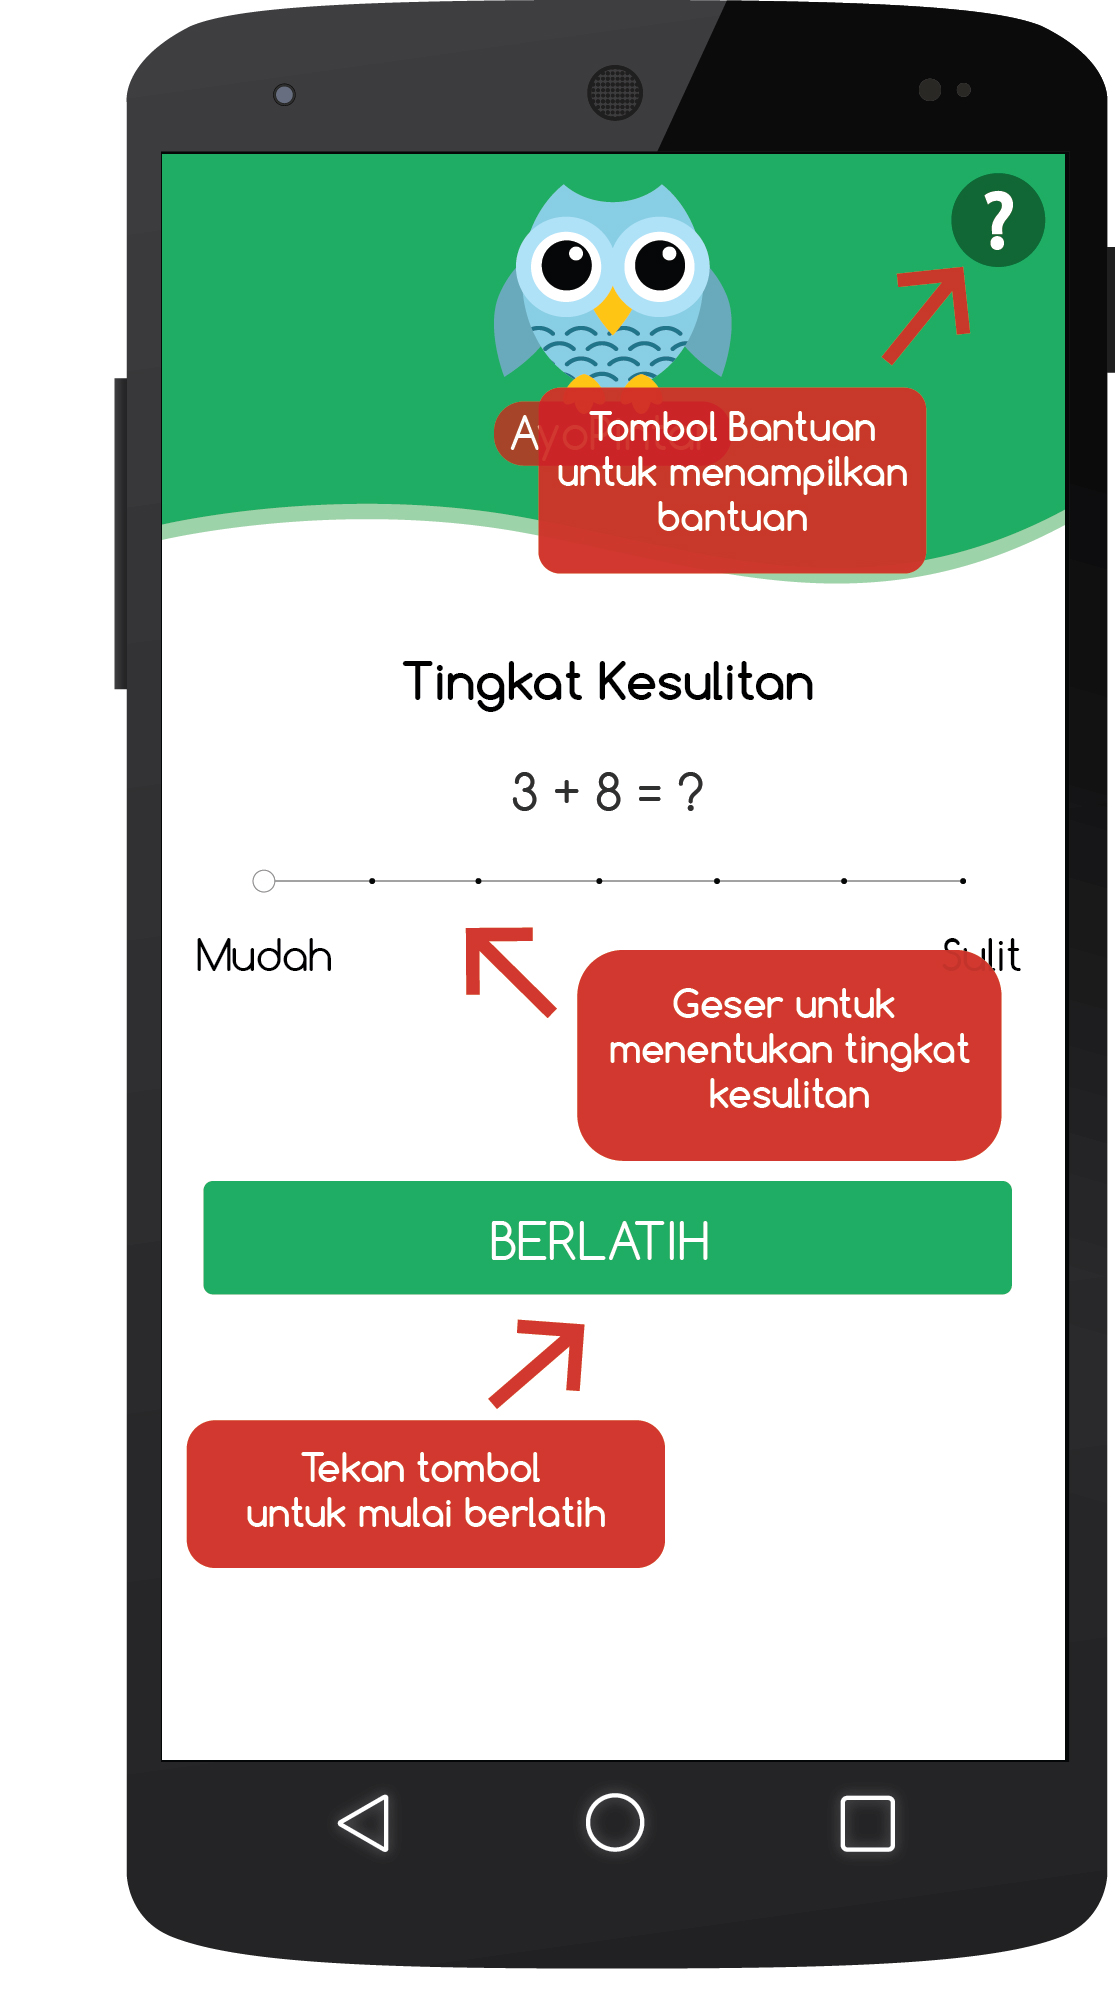
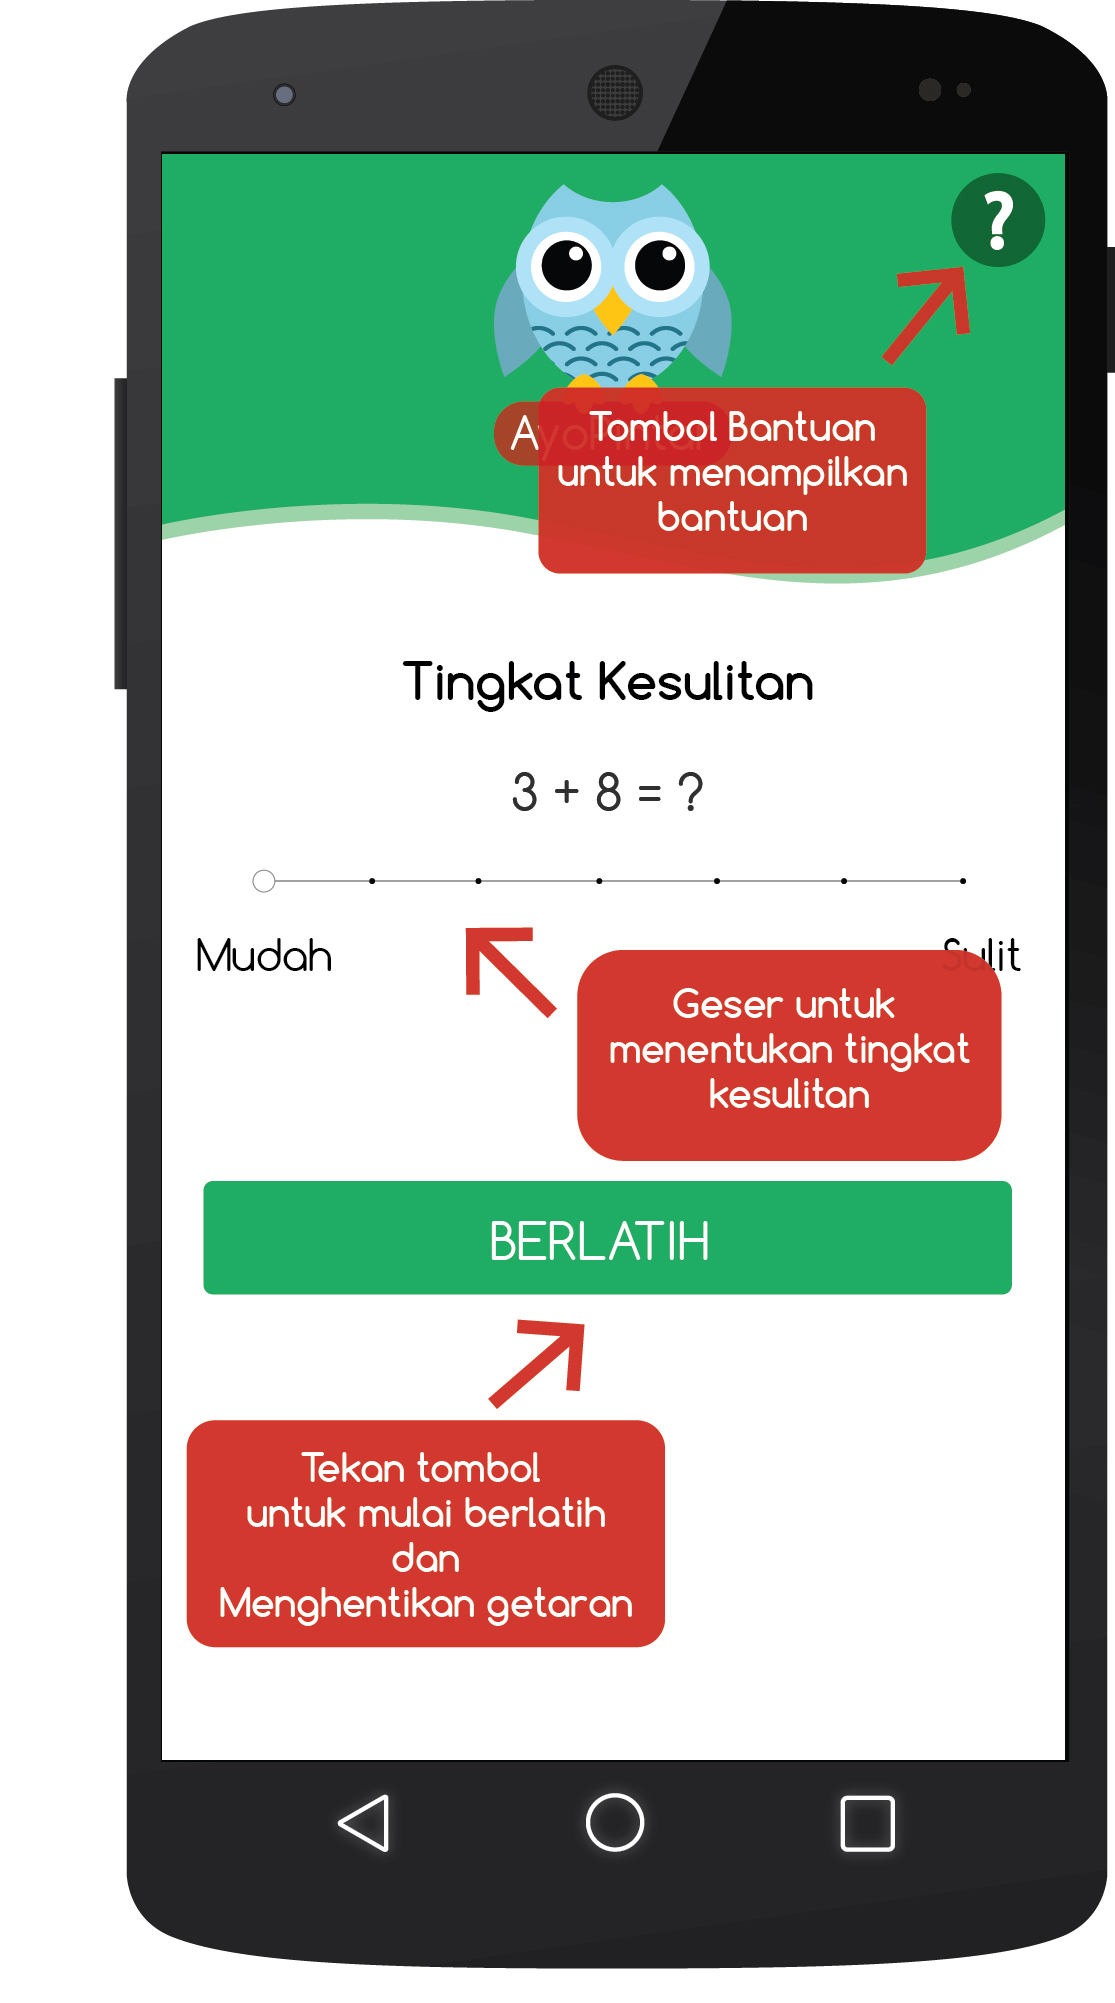
31 August 2017 : 13.10

Changed region(s): [[0.1525, 0.7738, 0.6099, 0.8357]]

diff --git a/src/pages/home/home.ts b/src/pages/home/home.ts
@@ -6,6 +6,7 @@ import { LocalNotifications } from '@ionic-native/local-notifications';
 import { Dialogs } from '@ionic-native/dialogs';
 import { BackgroundMode } from '@ionic-native/background-mode';
 import { AndroidFullScreen } from '@ionic-native/android-full-screen';
+import { Vibration } from '@ionic-native/vibration';
 
 @Component({
   selector: 'page-home',
@@ -18,7 +19,8 @@ export class HomePage {
   random3: number;
   hasil: number;
   jawaban: number;
-  soal: string
+  soal: string;
+  soal1 : string;
   
   
   toggleStatus = false;
@@ -32,14 +34,39 @@ export class HomePage {
     public navCtrl: NavController,
     private backgroundMode: BackgroundMode,
     private dialogs: Dialogs,
-    public alertCtrl: AlertController
+    public alertCtrl: AlertController,
+    private vibration: Vibration
     ) {}
       
 
     ionViewDidLoad() {
+
+       
+
         console.log('ionViewDidLoad About2');
+        this.backgroundMode.enable(); 
+        this.loop();  
         
      }
+
+     
+
+     loop(){
+
+       setInterval(() => {      
+          console.log('timer');
+          //you can call function here
+          this.localNotifications.schedule({
+            id:1,
+            text : 'Tekan Tombol BERLATIH untuk menghentikan getaran',
+            // icon: 'file:/assets/pict/AkuSehat.png'
+          }),
+          this.vibration.vibrate([
+            2000,100,2000,100,2000,100,2000,100,2000,100,2000,100,2000,100,2000,100,2000,100,2000,100,2000,100,2000,100,2000,100,2000,100,2000,100,2000,100,2000,100,2000,100,2000,100,2000,100,2000,100,2000,100,2000,100,2000,100,2000,100,2000,100,2000,100,2000,100,2000,100,2000,100,2000,100,2000,100,2000,100,2000,100,2000,100,2000,100,2000,100,2000,100,2000,100,2000,100,2000,100,2000,100,2000,100,2000,100,2000,100,2000,100,2000,100,2000,100,2000,100,2000,100,2000,100,2000,100,2000,100,2000,100,2000,100,2000,100,2000,100,2000,100,2000,100,2000,100,2000,100,2000,100,2000,100,2000,100,2000,100,2000,100,2000,100,2000,100,2000,100,2000,100,2000,100,2000,100,2000,100,2000,100,2000,100,2000,100,2000,100,2000,100,2000,100,2000,100,2000,100,2000,100,2000,100,2000,100,2000,100,2000,100,2000,100,2000,100,2000,100,2000,100,2000,100,2000,100,2000,100,2000,100,2000,100,2000,100,2000,100,2000,100,2000,100,2000,100,2000,100,2000,100,2000,100,2000,100,2000,100,2000,100,2000,100,2000,100,2000])
+       },900000);
+        // this.ionViewDidLoad;
+         
+    }
 
   tambah(){
     if(this.JumlahSoal<5)
@@ -58,26 +85,12 @@ export class HomePage {
     this.navCtrl.push(HelpPage);
   }
 
-  Change_Toggle() {
-
-
-    // nnti dikasih password gitu
-  
-
-  // 
-  if(this.toggleStatus == true){
-
-    this.backgroundMode.enable();        
-   }
-   else{
-     this.backgroundMode.disable();  
-   }
-
-  }
-
-  // var timeNow = new Date().getTime();
   Change_Soal() {
     this.random();
+  }
+
+  randomKodeSoal(){
+    this.KodeSoal = Math.floor((Math.random()*7)+1);
   }
 
   random(){
@@ -85,100 +98,146 @@ export class HomePage {
         this.random1 = Math.floor((Math.random()*9)+1);
         this.random2 = Math.floor((Math.random()*9)+1);
         this.hasil=this.random1 + this.random2;
-        this.soal=this.random1+' + '+this.random2+'= ?';
+        this.soal=this.random1+' + '+this.random2+' = ?';
+        this.soal1=this.random1+' + '+this.random2+' = ';
       }
       else if(this.KodeSoal==2){
         this.random1 = Math.floor((Math.random()*99)+10);
         this.random2 = Math.floor((Math.random()*9)+1);
         this.hasil=this.random1 + this.random2;
-        this.soal=this.random1+' + '+this.random2+'= ?';
+        this.soal=this.random1+' + '+this.random2+' = ?';
+        this.soal1=this.random1+' + '+this.random2+' = ';
       }
       else if(this.KodeSoal==3){
         this.random1 = Math.floor((Math.random()*99)+10);
         this.random2 = Math.floor((Math.random()*99)+10);
         this.hasil=this.random1 + this.random2;
-        this.soal=this.random1+' + '+this.random2+'= ?';
+        this.soal=this.random1+' + '+this.random2+' = ?';
+        this.soal1=this.random1+' + '+this.random2+' = ';
       }
       else if(this.KodeSoal==4){
         this.random1 = Math.floor((Math.random()*9)+1);
         this.random2 = Math.floor((Math.random()*9)+1);
         this.hasil=this.random1 * this.random2;
-        this.soal=this.random1+' x '+this.random2+'= ?';
+        this.soal=this.random1+' x '+this.random2+' = ?';
+        this.soal1=this.random1+' x '+this.random2+' = ';
       }
       else if(this.KodeSoal==5){
         this.random1 = Math.floor((Math.random()*99)+10);
         this.random2 = Math.floor((Math.random()*9)+1);
         this.hasil=this.random1 * this.random2;
-        this.soal=this.random1+' x '+this.random2+'= ?';
+        this.soal=this.random1+' x '+this.random2+' = ?';
+        this.soal1=this.random1+' x '+this.random2+' = ';
       }
       else if(this.KodeSoal==6){
         this.random1 = Math.floor((Math.random()*9)+1);
         this.random2 = Math.floor((Math.random()*9)+1);
         this.random3 = Math.floor((Math.random()*9)+1);
         this.hasil=this.random1 * this.random2 + this.random3;
-        this.soal=this.random1+' x '+this.random2+' + '+this.random3+'= ?';
+        this.soal=this.random1+' x '+this.random2+' + '+this.random3+' = ?';
+        this.soal=this.random1+' x '+this.random2+' + '+this.random3+' = ';
       }
       else if(this.KodeSoal==7){
         this.random1 = Math.floor((Math.random()*9)+1);
         this.random2 = Math.floor((Math.random()*99)+10);
         this.random3 = Math.floor((Math.random()*99)+10);
         this.hasil=this.random1 * this.random2 + this.random3;
-        this.soal=this.random1+' x '+this.random2+' + '+this.random3+'= ?';
+        this.soal=this.random1+' x '+this.random2+' + '+this.random3+' = ?';
+        this.soal=this.random1+' x '+this.random2+' + '+this.random3+' = ';
       }
-
+      console.log(this.random1,this.random2,this.random3);
+      
   }
 
   cekJawab() {
+    console.log(this.jawaban);
     if(this.jawaban==this.hasil){
+      
+      console.log("masuk cek jawab bener");
           let alert = this.alertCtrl.create({
-        title: 'New Friend!',
-        subTitle: 'Your friend, Obi wan Kenobi, just accepted your friend request!',
-        buttons: ['OK']
+        title: 'Jawaban Benar!',
+        buttons: [
+        {
+          text: 'Akhiri',
+          handler: data => {
+            console.log('Cancel clicked');
+          }
+        },
+        {
+          text: 'Lanjut Berlatih!',
+          handler: data => {
+            console.log('Saved clicked');
+            // this.jawaban=data.jawaban;
+            this.latihan();
+          }
+        }
+      ]
       });
       alert.present();
     }
     else {
-      this.notif();
+      console.log("masuk cek jawab salah");
+      let alert = this.alertCtrl.create({
+        title: 'Jawaban Salah!',
+        subTitle : '<br>'+'Jawaban yang benar :',
+        message: this.soal1 + this.hasil,
+        buttons: [
+        {
+          text: 'Akhiri',
+          handler: data => {
+            console.log('Cancel clicked');
+          }
+        },
+        {
+          text: 'Lanjut Berlatih!',
+          handler: data => {
+            console.log('Saved clicked');
+            // this.jawaban=data.jawaban;
+            this.latihan();
+          }
+        }
+      ]
+      });
+      alert.present();
     }
   }
 
-  notif() {
 
-    this.androidFullScreen.showUnderSystemUI()
-    // this.androidFullScreen.isImmersiveModeSupported()
-    .then(() => this.androidFullScreen.immersiveMode())
-    .catch((error: any) => console.log(error));
-
-    this.random();
-
+  latihan() {
+        // menghentikan getaran
+        this.vibration.vibrate(0);
+        // this.randomKodeSoal();
+        this.random();
+        this.showPrompt();
 
 
-    
-    this.dialogs.prompt(this.soal, 'Soal 1', ['Jawab'],'')
 
-    .then(function(result) {
-      // var input = result.input1;
-      // no button = 0, 'OK' = 1, 'Cancel' = 2
-      this.jawaban = result;
-      this.cekJawab();
-      // var btnIndex = result.buttonIndex;
-      
+      }
+
+      showPrompt() {
+    let prompt = this.alertCtrl.create({
+      title: 'Berlatih',
+      message: this.soal,
+      inputs: [
+        {
+          name: 'jawaban',
+          placeholder: 'Jawaban'
+        },
+      ],
+      buttons: [
+        {
+          text: 'Jawab',
+          handler: data => {
+            console.log('Saved clicked');
+            this.jawaban=data.jawaban;
+            this.cekJawab();
+          }
+        }
+      ]
     });
-
-   
-
+    prompt.present();
   }
 
-  rollDice() {
-        var t_this = this;
-        var i = 0
-        var roll_int = setInterval(() => {
-
-          this.notif();
-        }, 10000);
-
-        
-      }
 
 
 }

diff --git a/src/pages/home/home.html b/src/pages/home/home.html
@@ -22,9 +22,9 @@
           <ion-icon class="icon" name="md-help" ></ion-icon>
         </button>
     </ion-fab>
-    <ion-fab top left >
+    <!--<ion-fab top left >
       <ion-toggle color="ijoTua" [(ngModel)]="toggleStatus"  checked="false" (ionChange)="Change_Toggle()"></ion-toggle>
-    </ion-fab>
+    </ion-fab>-->
     <!--<ion-item no-lines class="transparent" text-right>
     <ion-icon name="ios-help-circle-outline" class="icon"></ion-icon>
     </ion-item>-->
@@ -48,17 +48,19 @@
           <ion-col text-right col-6><font size="4">Sulit</font></ion-col>
         </ion-row>
     </ion-grid>
-    <ion-item></ion-item>
-    <ion-item text-center no-lines padding-top><font size="5">Jumlah Soal</font></ion-item>
-    <ion-grid >
+    <!--<ion-item></ion-item>-->
+    <!--<ion-item text-center no-lines padding-top><font size="5">Jumlah Soal</font></ion-item>-->
+    <!--<ion-grid >
         <ion-row>
           <ion-col text-right ><button ion-button (click)="kurang()" small color="ijo">-</button></ion-col>
           <ion-col text-center><button ion-button clear color="grey"><p><font size="3">{{JumlahSoal}} soal</font></p></button></ion-col>
           <ion-col><button ion-button (click)="tambah()" small color="ijo">+</button></ion-col>
         </ion-row>
     </ion-grid>
-    <ion-item no-lines></ion-item>
-    <button ion-button block color="ijo" (click)="rollDice()">Pasang</button>
+    <ion-item no-lines></ion-item>-->
+    <!--<button ion-button block color="ijo" (click)="rollDice()">Pasang</button>-->
+  
+    <button ion-button class="Button" block color="ijo" (click)="latihan()"><p class="ButtonWord">Berlatih</p></button>
   
 
 </ion-content>

diff --git a/src/app/app.component.ts b/src/app/app.component.ts
@@ -6,6 +6,7 @@ import { SplashScreen } from '@ionic-native/splash-screen';
 import { HomePage } from '../pages/home/home';
 
 import { Autostart } from '@ionic-native/autostart';
+import { NativeAudio } from '@ionic-native/native-audio';
 
 @Component({
   templateUrl: 'app.html'
@@ -13,12 +14,15 @@ import { Autostart } from '@ionic-native/autostart';
 export class MyApp {
   rootPage:any = HomePage;
 
-  constructor(platform: Platform, statusBar: StatusBar, splashScreen: SplashScreen, private autostart: Autostart) {
+  constructor(platform: Platform, statusBar: StatusBar, splashScreen: SplashScreen, private autostart: Autostart, private nativeAudio: NativeAudio) {
+    this.nativeAudio.preloadSimple('splash', 'assets/Opening.mp3');
     platform.ready().then(() => {
+      this.nativeAudio.play('splash');
       // Okay, so the platform is ready and our plugins are available.
       // Here you can do any higher level native things you might need.
       statusBar.styleDefault();
       splashScreen.hide();
+      // this.nativeAudio.stop('splash');
       this.autostart.enable();
     });
   }

diff --git a/src/app/app.module.ts b/src/app/app.module.ts
@@ -15,6 +15,8 @@ import { Dialogs } from '@ionic-native/dialogs';
 import { BackgroundMode } from '@ionic-native/background-mode';
 import { Autostart } from '@ionic-native/autostart';
 import { AndroidFullScreen } from '@ionic-native/android-full-screen';
+import { Vibration } from '@ionic-native/vibration';
+import { NativeAudio } from '@ionic-native/native-audio';
 
 @NgModule({
   declarations: [
@@ -35,7 +37,9 @@ import { AndroidFullScreen } from '@ionic-native/android-full-screen';
   providers: [
     StatusBar,
     BackgroundMode,
+    Vibration,
     Autostart,
+    NativeAudio,
     AndroidFullScreen,
     Dialogs,
     LocalNotifications,

diff --git a/src/pages/home/home.scss b/src/pages/home/home.scss
@@ -19,4 +19,13 @@ page-home {
         align-content: right;
     }
 
+    .Button {
+        margin-top: 15vw;
+        height: 15vw;
+    }
+
+    .ButtonWord {
+        font-size: 5vw;
+    }
+
 }
